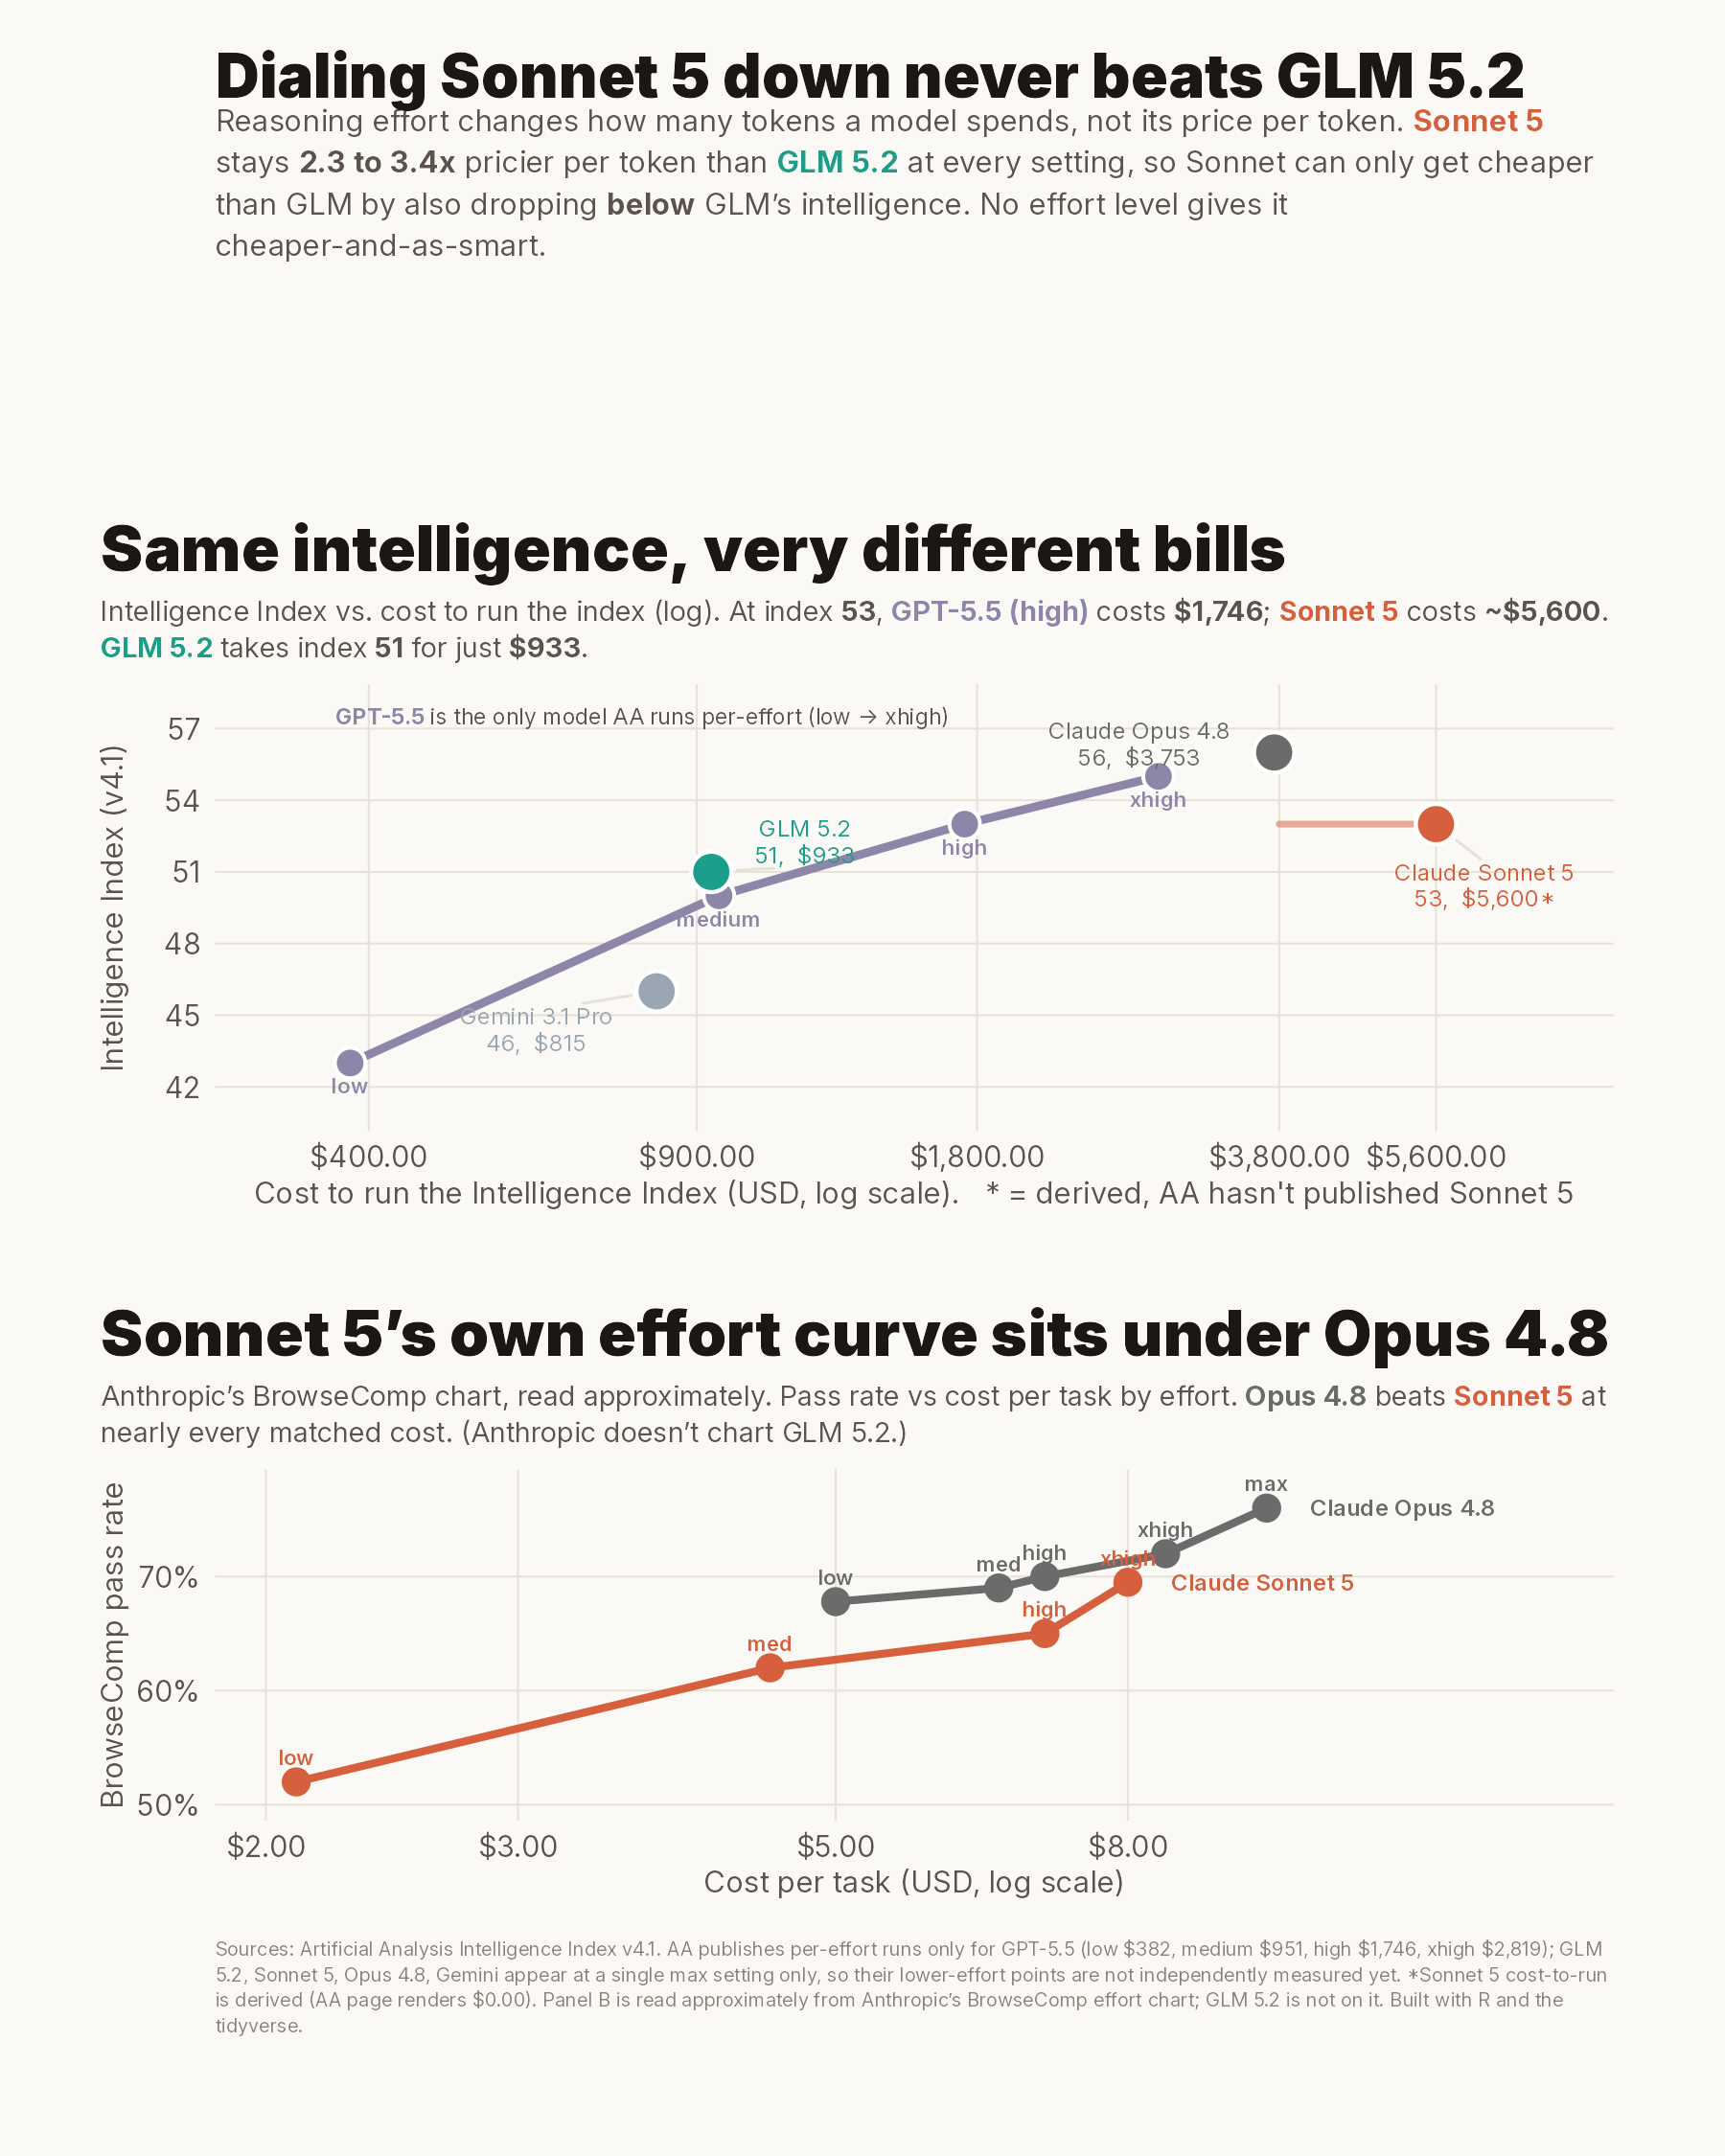
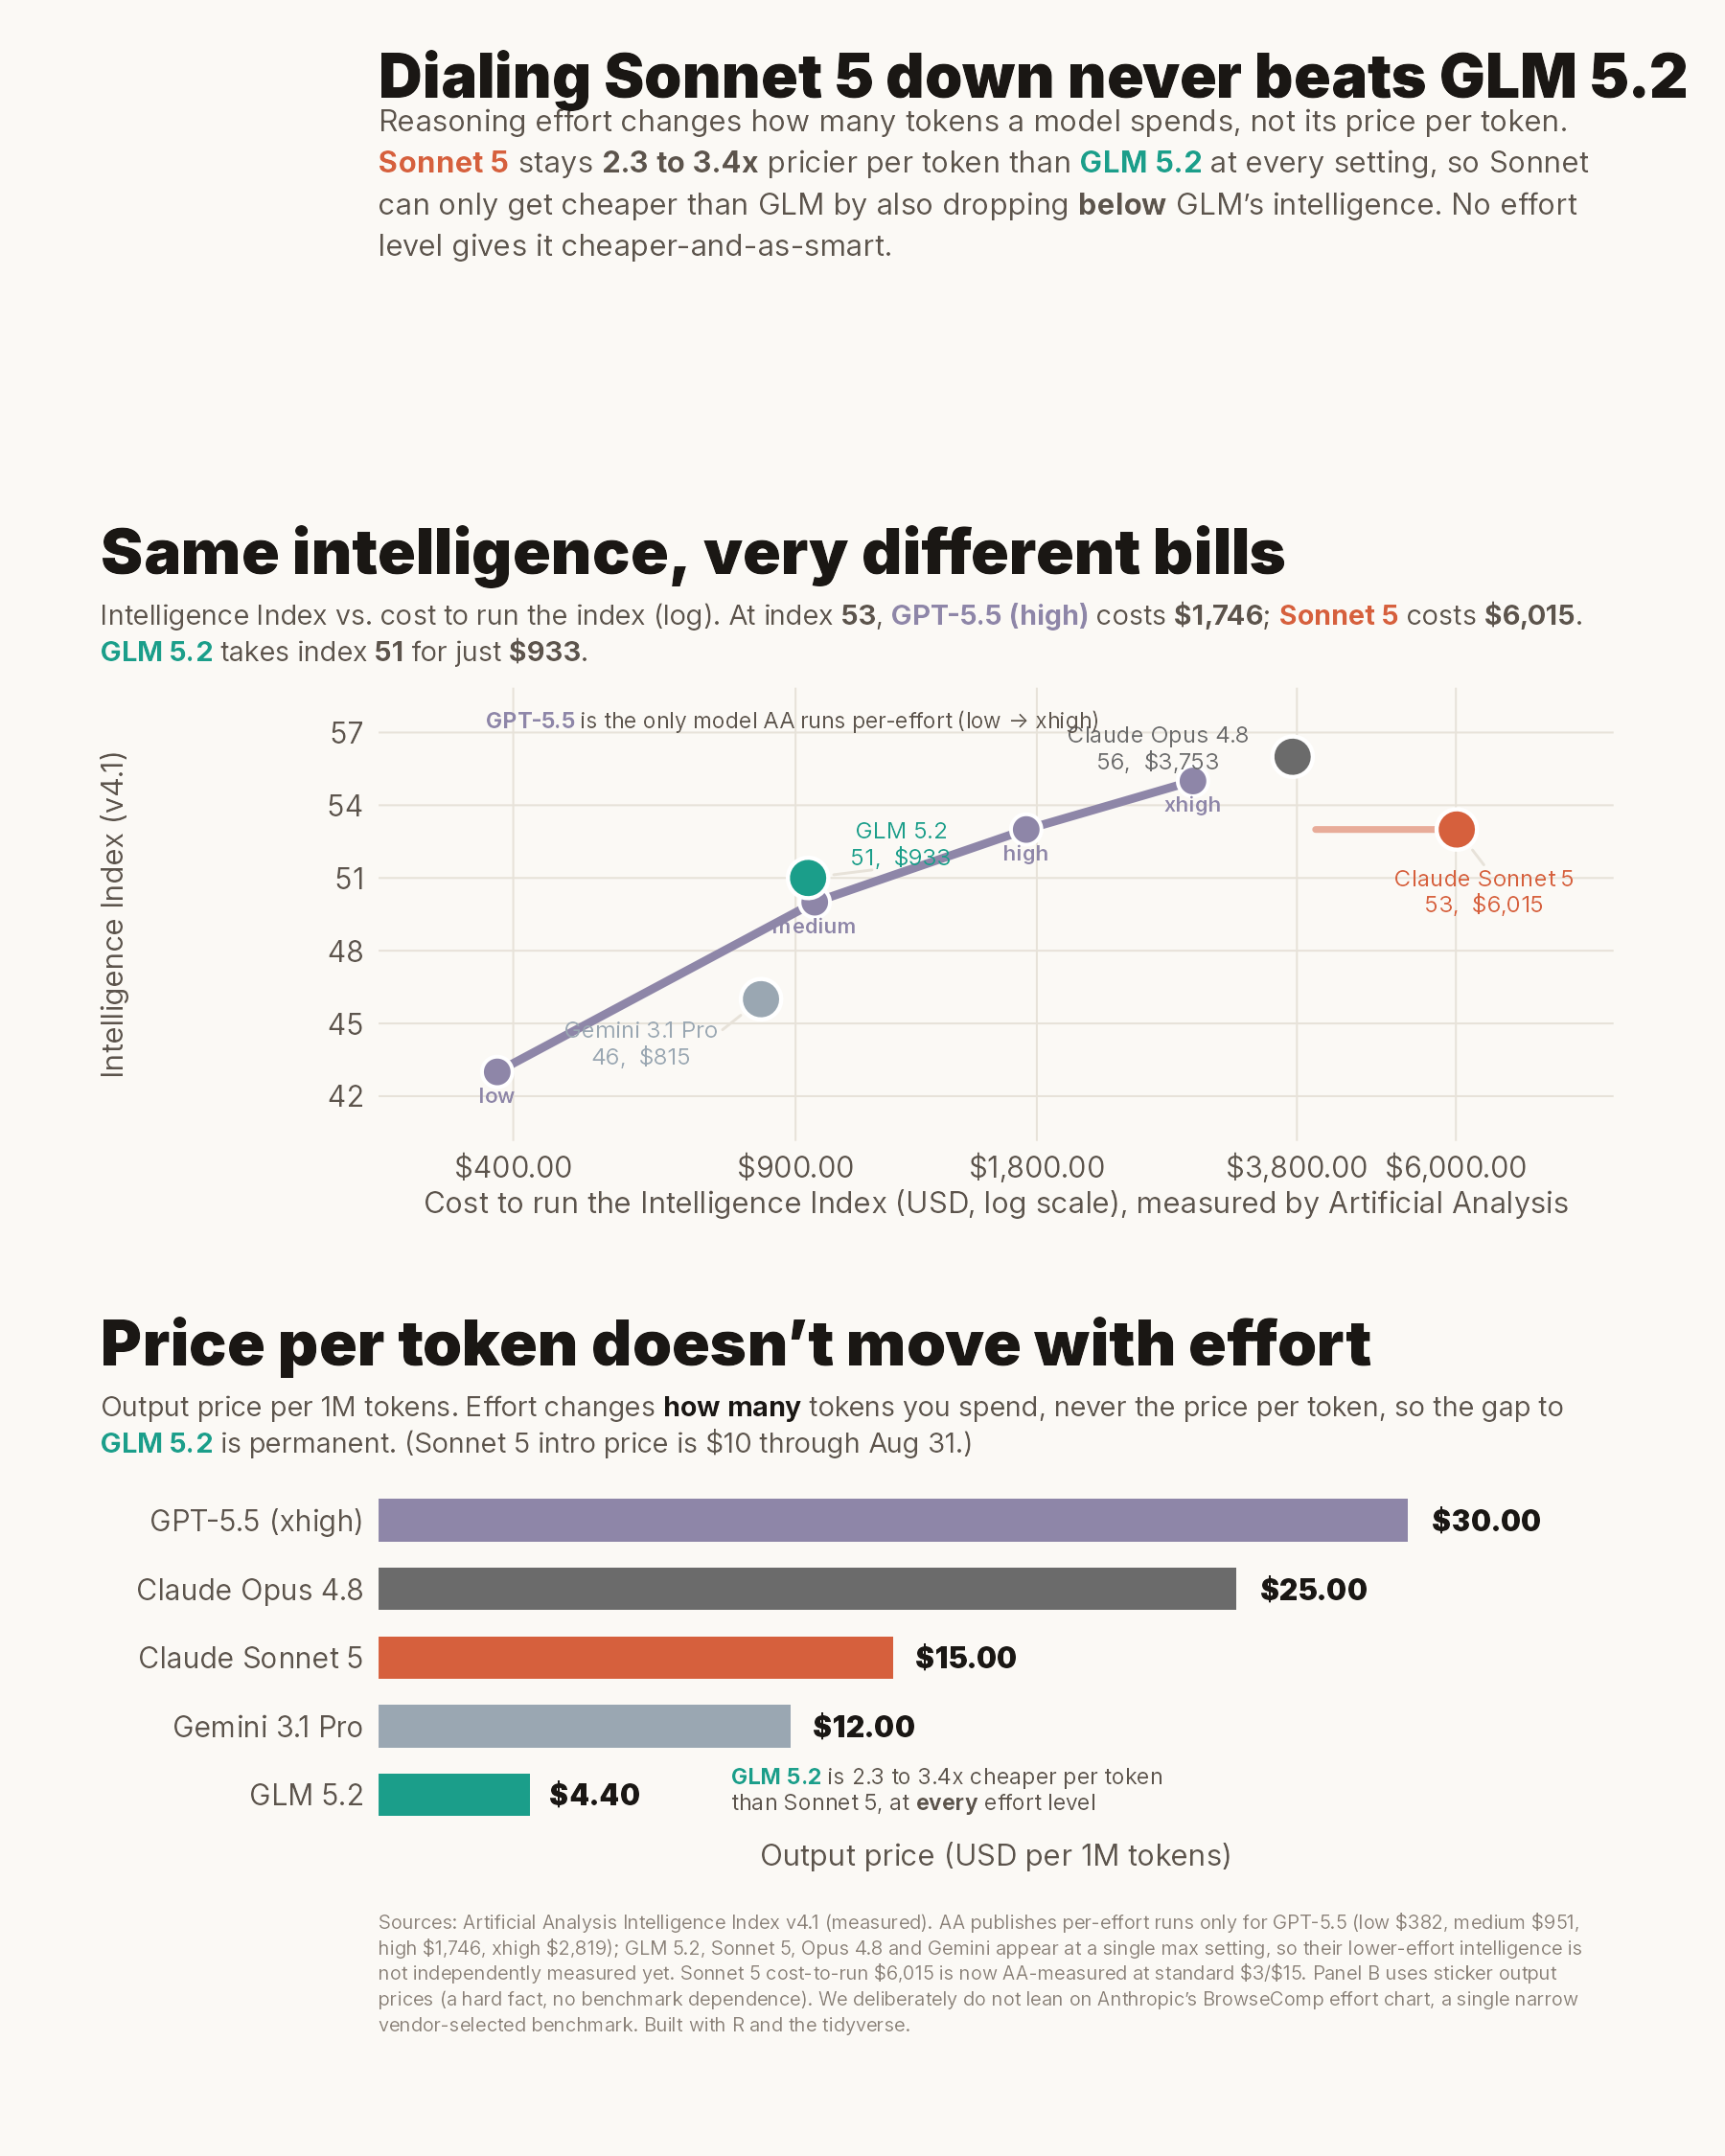
Correct Sonnet 5 cost-to-run to AA-measured $6,015; drop BrowseComp panel
- AA has now published Sonnet 5 pricing ($3/$15) and a MEASURED cost-to-run of $6,015.18
  (earlier $0.00 was a load delay). Replaces my derived ~$5,600 estimate; updates both plots.
- Sonnet 5 is now the most expensive model to run AND not the smartest: $6,015 (index 53) vs
  Opus 4.8 $3,753 (index 56). ~6.5x GLM 5.2's $933 for +2 points; cost/point ~$113 (worst).
- Replace the shaky, vendor-selected BrowseComp effort panel with a hard-fact 'price per token
  is fixed across effort' panel. effort_levels.csv archived but no longer plotted.
- Update README + token_economics_notes accordingly.

diff --git a/sources/token_economics_notes.md b/sources/token_economics_notes.md
@@ -34,13 +34,27 @@ complete the identical eval suite. Both are verbose; Sonnet 5 is the bigger over
 Sonnet 5 uses MORE tokens than both GLM (2.1x) and even its bigger sibling Opus 4.8 (2.5x).
 Opus 4.8 is the most token-efficient AND highest-scoring of the three.
 
-## Effective OUTPUT cost to run the whole Intelligence Index (tokens x output price)
-(Output dominates cost for verbose reasoning models; input/eval prompts are ~equal across
-models so they don't change the ranking.)
+## AA-MEASURED cost to run the whole Intelligence Index (UPDATE 2026-06-30, later same day)
+AA later populated Sonnet 5's pricing and cost-to-run (earlier $0.00 was a load delay):
+- Sonnet 5 price: $3/M input, $15/M output (standard). Cache $3.75 / $0.30.
+- "In total, it cost $6,015.18 to evaluate Claude Sonnet 5 on the Intelligence Index." MEASURED.
+So Sonnet 5 cost-to-run is NO LONGER derived: it is $6,015 (measured, standard pricing),
+even higher than my earlier ~$5,600 estimate. Intro pricing ($2/$10) implies ~$4,010 (derived).
+
+Measured cost-to-run, all models (AA, Intelligence Index v4.1, max effort):
+- GLM 5.2:        $933   (index 51)
+- Gemini 3.1 Pro: $815   (index 46)
+- GPT-5.5 xhigh:  $2,819 (index 55)
+- Opus 4.8:       $3,753 (index 56)
+- Sonnet 5:       $6,015 (index 53)  <- most expensive AND not the smartest
+
+Ratios: Sonnet 5 / GLM 5.2 = 6.45x (standard); ~4.3x at Sonnet intro. Sonnet 5 / Opus 4.8 =
+1.60x while scoring LOWER (53 vs 56). Cost per index point: GLM ~$18, Sonnet 5 ~$113 (worst).
+
+## (earlier output-only estimate, superseded by measured numbers above)
 - GLM 5.2:        140M x $4.40  = ~$616
 - Opus 4.8:       120M x $25.00 = ~$3,000
-- Sonnet 5 (intro):300M x $10.00 = ~$3,000  -> ~4.9x GLM
-- Sonnet 5 (std): 300M x $15.00 = ~$4,500   -> ~7.3x GLM
+- Sonnet 5 (std): 300M x $15.00 = ~$4,500
 
 ## THE KICKER: Sonnet 5 costs MORE to run than Opus 4.8
 At standard pricing Sonnet 5 (~$4,500) costs ~1.5x Opus 4.8 (~$3,000) to run the same

diff --git a/README.md b/README.md
@@ -54,17 +54,17 @@ on the Intelligence Index v4.1 (all at max reasoning effort):
 | Gemini 3.1 Pro | 46 | 56M | $815 (measured) | ~$18 |
 | GPT-5.5 (xhigh) | 55 | 72M | $2,819 (measured) | ~$51 |
 | Claude Opus 4.8 | 56 | 120M | $3,753 (measured) | ~$67 |
-| **Claude Sonnet 5** | 53 | **300M** | **~$3,800–5,600** (derived*) | ~$72–106 (worst) |
+| **Claude Sonnet 5** | 53 | **300M** | **$6,015** (measured) | ~$113 (worst) |
 
-\* AA's day-one Sonnet 5 page renders pricing at $0.00, so its cost-to-run is derived
-(300M tokens × $10/$15 output + input overhead).
+(Artificial Analysis later published Sonnet 5's measured cost-to-run, $6,015.18 at standard
+$3/$15, replacing my earlier derived estimate; ~$4,010 at intro $2/$10.)
 
 - **Sonnet 5 is the most verbose model in the field** (300M tokens, 2.1× GLM 5.2, 2.5× its
   own Opus 4.8). Its per-token price (~3.4× GLM) and its verbosity (2.1×) **compound** into a
-  **~4–6× real-cost disadvantage** for **+2** index points.
-- **The kicker:** Sonnet 5 costs *more* to run than Opus 4.8 (which scores *higher*) because
-  Opus is far leaner. Sonnet 5 sits **off the value frontier**, dominated by both Opus 4.8 and
-  GPT-5.5 (each higher intelligence for less money). → `plots/token_economics.png`
+  **~6.5× real-cost disadvantage** (~4.3× at intro pricing) for **+2** index points.
+- **The kicker:** Sonnet 5 costs *more* to run ($6,015) than Opus 4.8 ($3,753, which scores
+  *higher*) because Opus is far leaner. Sonnet 5 sits **off the value frontier**, dominated by
+  both Opus 4.8 and GPT-5.5 (each higher intelligence for less money). → `plots/token_economics.png`
 
 ### Across thinking levels (`plots/thinking_levels.png`)
 
@@ -74,8 +74,8 @@ Sonnet 5, Opus and Gemini appear at a single "max" setting only. But the conclus
 structural: GLM's output is **$4.40/M** vs Sonnet's **$10–15/M**, fixed at every effort, so at
 any matched token budget GLM is 2.3–3.4× cheaper. **Sonnet 5 can only get cheaper than GLM by
 also dropping below GLM's intelligence, so no effort level makes it cheaper-and-as-smart.**
-Anthropic's own BrowseComp effort curves confirm the shape and show Opus 4.8 sitting above
-Sonnet 5 at nearly every matched cost.
+This rests on a hard fact (fixed per-token pricing), not on any single benchmark; we
+deliberately do **not** lean on Anthropic's vendor-selected BrowseComp effort chart.
 
 ## Repository layout
 
@@ -85,7 +85,7 @@ data/
   economy.csv            # pricing, context, licence, weights, intelligence index per model
   token_economics.csv    # intelligence, output tokens to run the index, measured cost-to-run
   gpt55_effort.csv       # GPT-5.5 per-effort Intelligence-Index runs (the one measured effort curve)
-  effort_levels.csv      # Anthropic's BrowseComp cost-vs-passrate by effort (read from their chart)
+  effort_levels.csv      # Anthropic BrowseComp by effort (archived; NOT plotted, vendor-selected benchmark)
 plots/
   sonnet5_vs_glm52.png   # the headline capability + economy infographic
   sonnet5_vs_glm52_x.png # 4:5 version sized for X